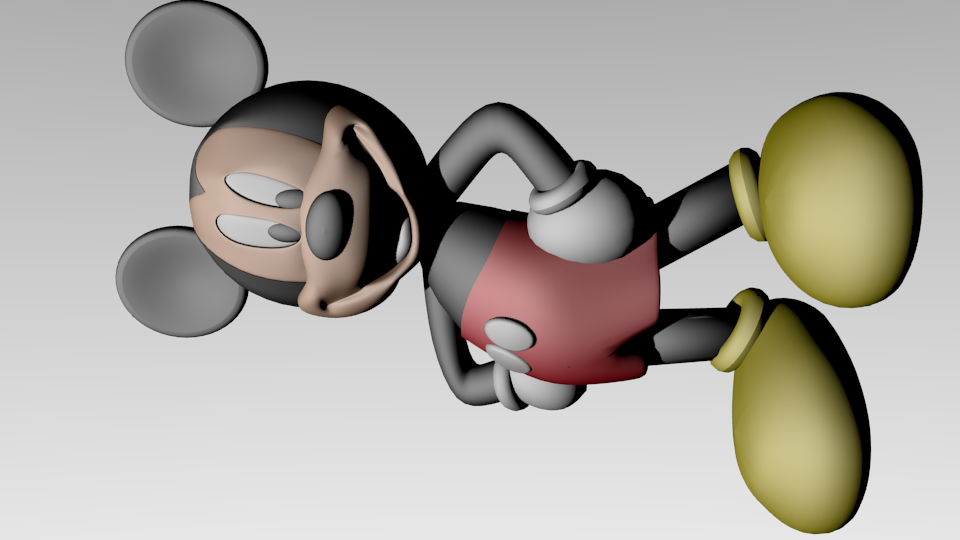
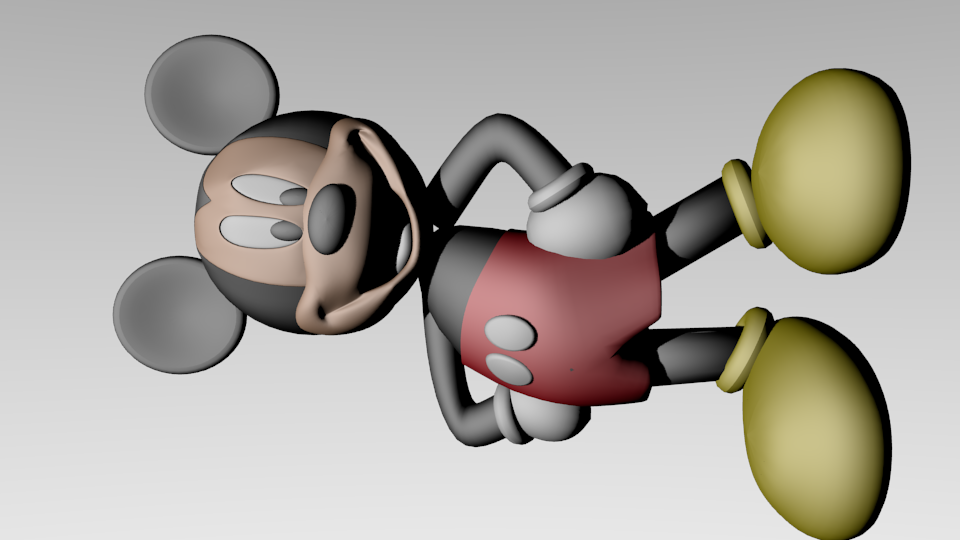
Increase the number of perspectives to 36.

Changed region(s): [[0.0938, 0.0, 0.9688, 1.0]]

diff --git a/Blender/CreateBlenderContent.py b/Blender/CreateBlenderContent.py
@@ -5,9 +5,9 @@ import mathutils
 cam = bpy.dataobjects['Camera']
 
 # Loop to create images from different perspectives.
-for counter in range(0,18):
+for counter in range(0,36):
     # Angle is calculated according to counter.
-    alpha = -10*counter
+    alpha = -1.25*counter
     # Radius of the circle.
     h     = -1.1
     # Coordinates for the new camera location.
